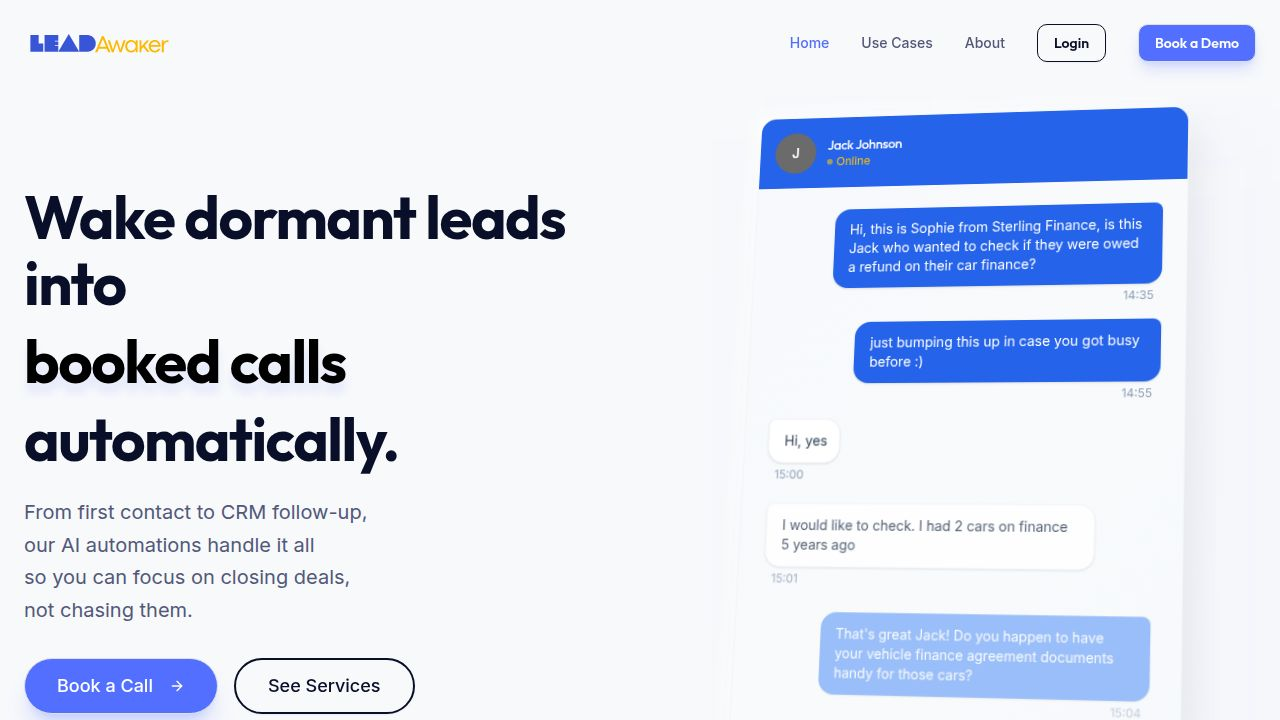
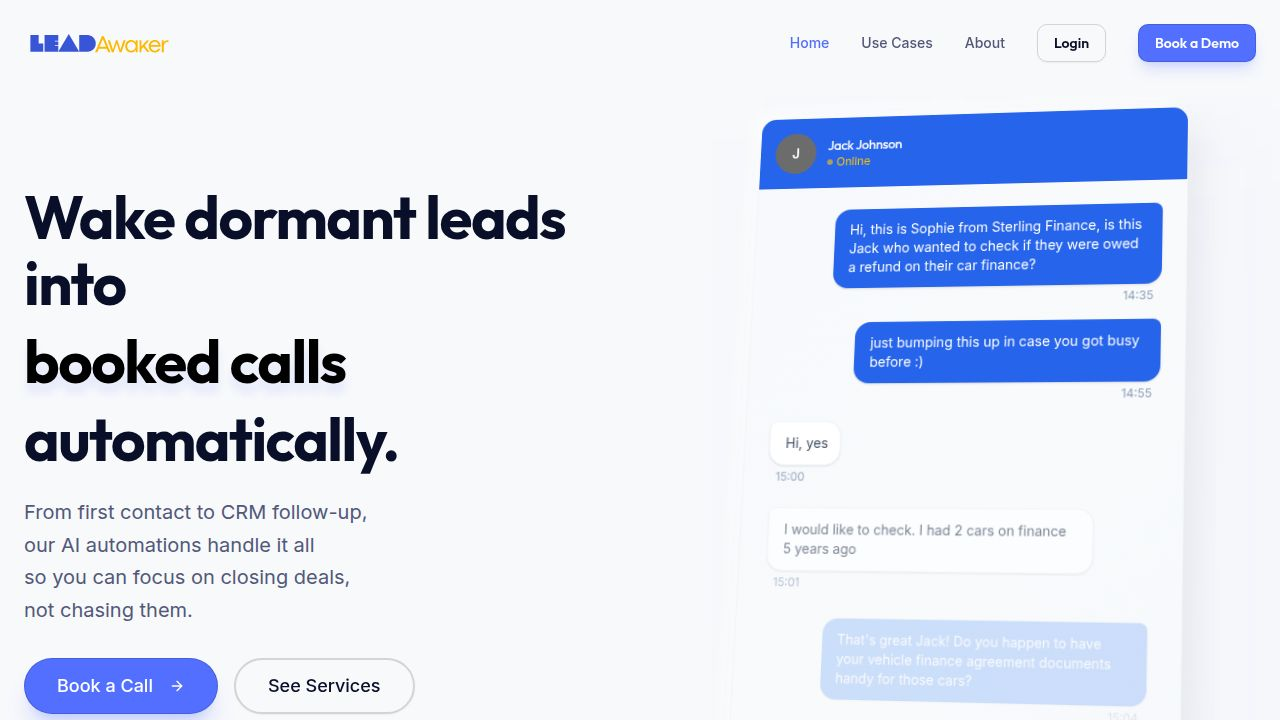
Add pulsing highlight to button and adjust button appearance
Modify the button's box-shadow and border-width in LeadReactivationAnimation.tsx, and update button variants in client/src/components/ui/button.tsx.

Replit-Commit-Author: Agent
Replit-Commit-Session-Id: 97355ec4-ee6d-459e-97b2-511485ad52f4
Replit-Commit-Checkpoint-Type: full_checkpoint
Replit-Commit-Event-Id: f48ac5bc-9600-41c5-ad12-0959ea7d6bdd
Replit-Commit-Screenshot-Url: https://storage.googleapis.com/screenshot-production-us-central1/8a681ede-6fc7-42d3-a56e-d96437166bf4/97355ec4-ee6d-459e-97b2-511485ad52f4/YisHq98
Replit-Helium-Checkpoint-Created: true

diff --git a/client/src/components/LeadReactivationAnimation.tsx b/client/src/components/LeadReactivationAnimation.tsx
@@ -119,15 +119,22 @@ const LeadReactivationAnimation = () => {
         ref={buttonRef}
         animate={{ 
           scale: hasReachedEnd ? 1 : 0.25 + clickScale,
-          opacity: 1 
+          opacity: 1,
+          boxShadow: brightness === 0 
+            ? [
+                '0 4px 12px -4px rgba(0,0,0,0.1), 0 0 0 0px rgba(59, 130, 246, 0)',
+                '0 4px 12px -4px rgba(0,0,0,0.1), 0 0 20px 4px rgba(59, 130, 246, 0.5)',
+                '0 4px 12px -4px rgba(0,0,0,0.1), 0 0 0 0px rgba(59, 130, 246, 0)'
+              ]
+            : hasReachedEnd 
+              ? '0 15px 35px -12px rgba(251, 191, 36, 0.4), 0 8px 15px -6px rgba(251, 146, 60, 0.2), inset 0 1px 1px rgba(255,255,255,0.4)' 
+              : `0 4px 12px -4px rgba(0,0,0,0.1), 0 ${brightness * 0.1}px ${brightness * 0.4}px rgba(251, 191, 36, ${brightness * 0.003 + 0.05}), inset 0 1px 1px rgba(255,255,255,0.2)`
         }}
+        transition={brightness === 0 ? { boxShadow: { repeat: Infinity, duration: 2 } } : { duration: 0.2 }}
         initial={{ opacity: 0, scale: 0.25 }}
-        className="relative px-12 py-6 text-2xl font-bold rounded-2xl z-10 select-none overflow-hidden border border-black/10 transition-all duration-200"
+        className="relative px-12 py-6 text-2xl font-bold rounded-2xl z-10 select-none overflow-hidden border border-black/15 transition-all duration-200"
         style={{
           background: `linear-gradient(135deg, rgb(${currentC1.r}, ${currentC1.g}, ${currentC1.b}), rgb(${currentC2.r}, ${currentC2.g}, ${currentC2.b}))`,
-          boxShadow: hasReachedEnd 
-            ? '0 15px 35px -12px rgba(251, 191, 36, 0.4), 0 8px 15px -6px rgba(251, 146, 60, 0.2), inset 0 1px 1px rgba(255,255,255,0.4)' 
-            : `0 4px 12px -4px rgba(0,0,0,0.1), 0 ${brightness * 0.1}px ${brightness * 0.4}px rgba(251, 191, 36, ${brightness * 0.003 + 0.05}), inset 0 1px 1px rgba(255,255,255,0.2)`,
           color: (activeClickCount > 0 || hasReachedEnd) ? '#ffffff' : '#1e293b'
         }}
       >
@@ -233,7 +240,7 @@ const Cursor = ({ startX, startY, targetOffsetX, targetOffsetY, buttonRef, onHov
       animate={{ 
         left: `calc(50% + ${targetOffsetX}px)`, 
         top: `calc(50% + ${targetOffsetY}px)`, 
-        scale: isClicked ? 0.77 : 1,
+        scale: isClicked ? 0.616 : 0.8,
         opacity: isClicked ? 0 : 1
       }}
       transition={{ duration: 1.2, ease: "linear" }}
@@ -246,7 +253,7 @@ const Cursor = ({ startX, startY, targetOffsetX, targetOffsetY, buttonRef, onHov
               d="M1 3h1v1h1v1h1v1h1v1h1v1h1v1h1v1h1v1h1v1h1v1h1v1h1v1h1v2H9v1h1v2h1v2h-1v1H8v-1H7v-2H6v-2H5v1H4v1H3v1H1v-17z"
               fill="#ffffff"
               stroke="#000"
-              strokeWidth="0.7"
+              strokeWidth="1.2"
             />
           </svg>
         ) : (
@@ -256,11 +263,11 @@ const Cursor = ({ startX, startY, targetOffsetX, targetOffsetY, buttonRef, onHov
                 d="M19 1h2v1h1v4h2v1h3v1h2v1h1v1h1v7h-1v3h-1v3H19v-3h-1v-2h-1v-2h-1v-2h-1v-1h-1v-3h3v1h1V2h1"
                 fill="#ffffff"
                 stroke="#000"
-                strokeWidth="0.7"
+                strokeWidth="1.2"
               />
-              <path d="M22 6v6" stroke="#000" strokeWidth="0.7" />
-              <path d="M25 7v5" stroke="#000" strokeWidth="0.7" />
-              <path d="M28 8v4" stroke="#000" strokeWidth="0.7" />
+              <path d="M22 6v6" stroke="#000" strokeWidth="1.2" />
+              <path d="M25 7v5" stroke="#000" strokeWidth="1.2" />
+              <path d="M28 8v4" stroke="#000" strokeWidth="1.2" />
             </svg>
             {isClicked && (
               <motion.div 

diff --git a/client/src/components/ui/button.tsx b/client/src/components/ui/button.tsx
@@ -23,12 +23,10 @@ const buttonVariants = cva(
         secondary:
           // @replit border, no hover, no shadow, secondary border.
           "border bg-secondary text-secondary-foreground border border-secondary-border ",
-        // @replit no hover, transparent border
         ghost: "border border-transparent",
         link: "text-primary underline-offset-4 hover:underline",
       },
       size: {
-        // @replit changed sizes
         default: "min-h-9 px-4 py-2",
         sm: "min-h-8 rounded-md px-3 text-xs",
         lg: "min-h-10 rounded-md px-8",
@@ -53,7 +51,7 @@ const Button = React.forwardRef<HTMLButtonElement, ButtonProps>(
     const Comp = asChild ? Slot : "button"
     return (
       <Comp
-        className={cn(buttonVariants({ variant, size, className }))}
+        className={cn(buttonVariants({ variant, size, className }), "border-black/15")}
         ref={ref}
         {...props}
       />
